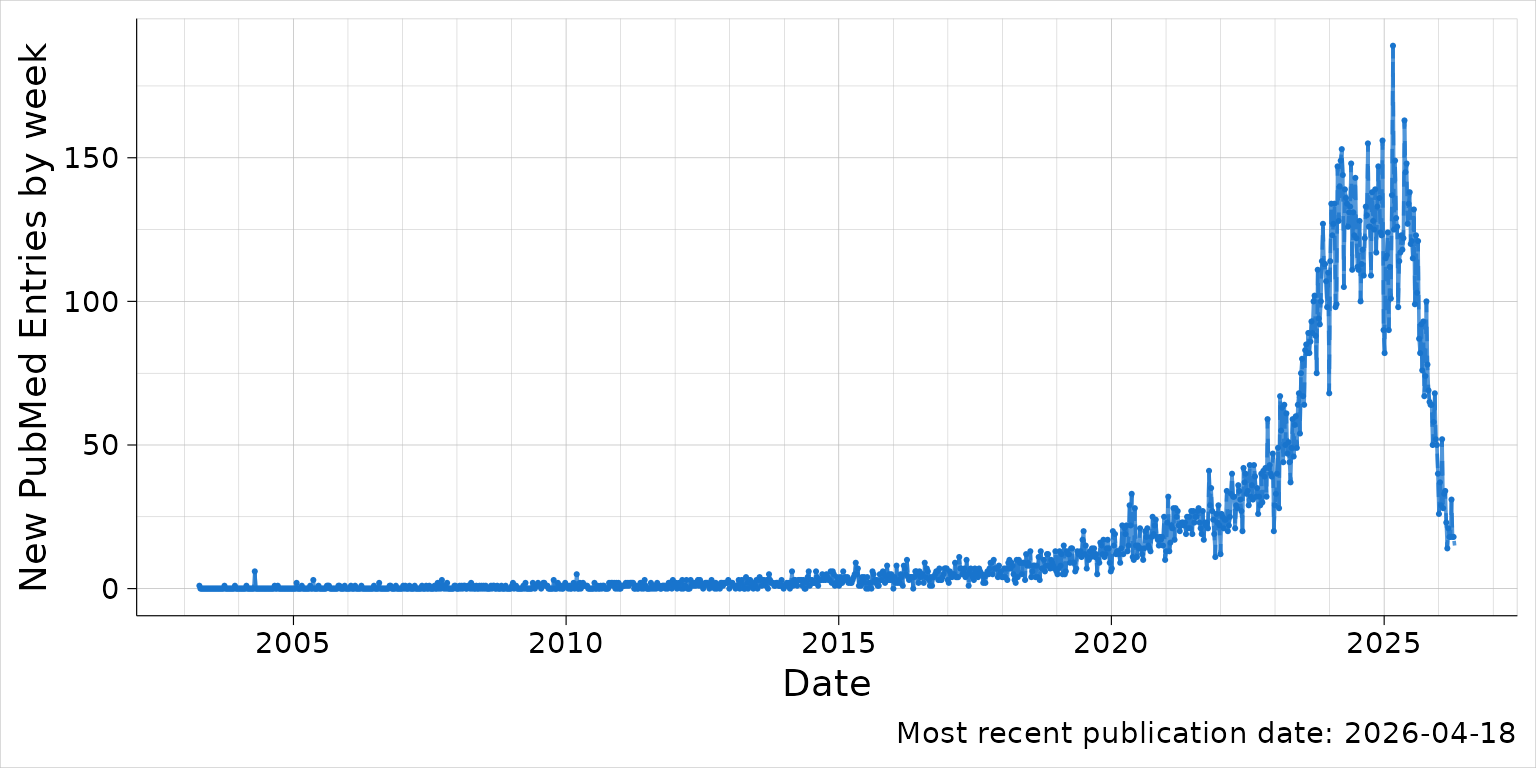
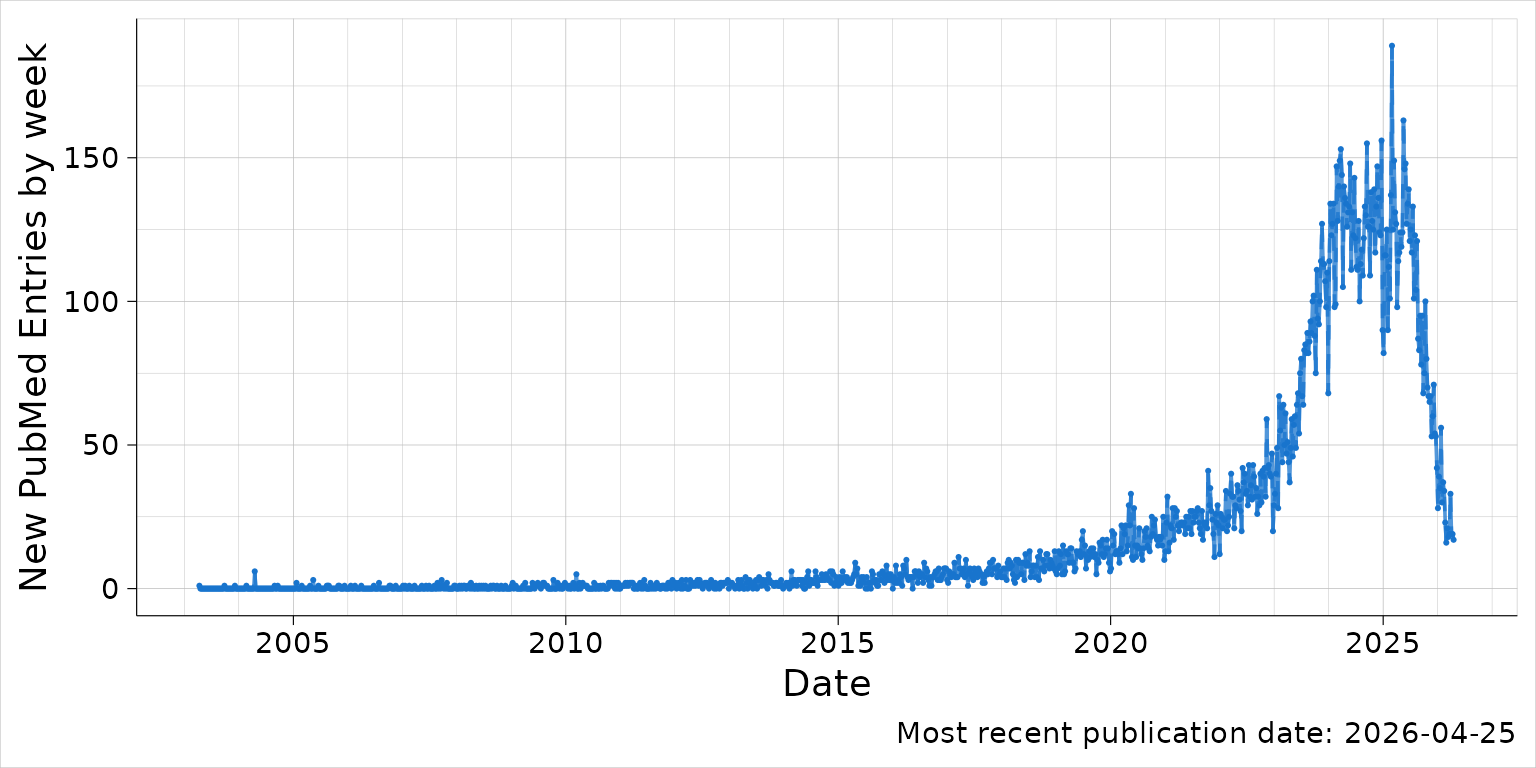
Deploying to gh-pages from @ explodecomputer/PubmedPlot@068eacdf5acdc66ea1c8a3d5640505ac4a8cb4ee 🚀

diff --git a/articles/mr.html b/articles/mr.html
@@ -199,7 +199,7 @@
 <span><span class="co">#&gt; Fetching records 6001 to 6436 </span></span>
 <span><span class="co">#&gt; Searching for year: 2025 </span></span>
 <span><span class="co">#&gt; Search term: "Mendelian randomisation" [tiab] OR "Mendelian randomization" [tiab] AND ("2025/01/01"[dp] : "2025/12/31"[dp]) </span></span>
-<span><span class="co">#&gt; Found 7128 articles matching the search term.</span></span>
+<span><span class="co">#&gt; Found 7127 articles matching the search term.</span></span>
 <span><span class="co">#&gt; Fetching records 1 to 500 </span></span>
 <span><span class="co">#&gt; Fetching records 501 to 1000 </span></span>
 <span><span class="co">#&gt; Fetching records 1001 to 1500 </span></span>
@@ -214,15 +214,15 @@
 <span><span class="co">#&gt; Fetching records 5501 to 6000 </span></span>
 <span><span class="co">#&gt; Fetching records 6001 to 6500 </span></span>
 <span><span class="co">#&gt; Fetching records 6501 to 7000 </span></span>
-<span><span class="co">#&gt; Fetching records 7001 to 7128 </span></span>
+<span><span class="co">#&gt; Fetching records 7001 to 7127 </span></span>
 <span><span class="co">#&gt; Searching for year: 2026 </span></span>
 <span><span class="co">#&gt; Search term: "Mendelian randomisation" [tiab] OR "Mendelian randomization" [tiab] AND ("2026/01/01"[dp] : "2026/12/31"[dp]) </span></span>
-<span><span class="co">#&gt; Found 2010 articles matching the search term.</span></span>
+<span><span class="co">#&gt; Found 2130 articles matching the search term.</span></span>
 <span><span class="co">#&gt; Fetching records 1 to 500 </span></span>
 <span><span class="co">#&gt; Fetching records 501 to 1000 </span></span>
 <span><span class="co">#&gt; Fetching records 1001 to 1500 </span></span>
 <span><span class="co">#&gt; Fetching records 1501 to 2000 </span></span>
-<span><span class="co">#&gt; Fetching records 2001 to 2010</span></span>
+<span><span class="co">#&gt; Fetching records 2001 to 2130</span></span>
 <span><span class="co"># write_json(a, "pubmed_abstracts.json", pretty=TRUE)</span></span>
 <span><span class="va">b</span> <span class="op">&lt;-</span> <span class="fu"><a href="../reference/group_by_time_interval.html">group_by_time_interval</a></span><span class="op">(</span><span class="va">a</span><span class="op">)</span></span>
 <span><span class="va">p</span> <span class="op">&lt;-</span> <span class="fu"><a href="../reference/plot_time_interval.html">plot_time_interval</a></span><span class="op">(</span><span class="va">b</span><span class="op">)</span></span></code></pre></div>

diff --git a/articles/mr.md b/articles/mr.md
@@ -137,7 +137,7 @@ a <- PubmedPlot::search_term_by_year('"Mendelian randomisation" [tiab] OR "Mende
 #> Fetching records 6001 to 6436 
 #> Searching for year: 2025 
 #> Search term: "Mendelian randomisation" [tiab] OR "Mendelian randomization" [tiab] AND ("2025/01/01"[dp] : "2025/12/31"[dp]) 
-#> Found 7128 articles matching the search term.
+#> Found 7127 articles matching the search term.
 #> Fetching records 1 to 500 
 #> Fetching records 501 to 1000 
 #> Fetching records 1001 to 1500 
@@ -152,15 +152,15 @@ a <- PubmedPlot::search_term_by_year('"Mendelian randomisation" [tiab] OR "Mende
 #> Fetching records 5501 to 6000 
 #> Fetching records 6001 to 6500 
 #> Fetching records 6501 to 7000 
-#> Fetching records 7001 to 7128 
+#> Fetching records 7001 to 7127 
 #> Searching for year: 2026 
 #> Search term: "Mendelian randomisation" [tiab] OR "Mendelian randomization" [tiab] AND ("2026/01/01"[dp] : "2026/12/31"[dp]) 
-#> Found 2010 articles matching the search term.
+#> Found 2130 articles matching the search term.
 #> Fetching records 1 to 500 
 #> Fetching records 501 to 1000 
 #> Fetching records 1001 to 1500 
 #> Fetching records 1501 to 2000 
-#> Fetching records 2001 to 2010
+#> Fetching records 2001 to 2130
 # write_json(a, "pubmed_abstracts.json", pretty=TRUE)
 b <- group_by_time_interval(a)
 p <- plot_time_interval(b)
